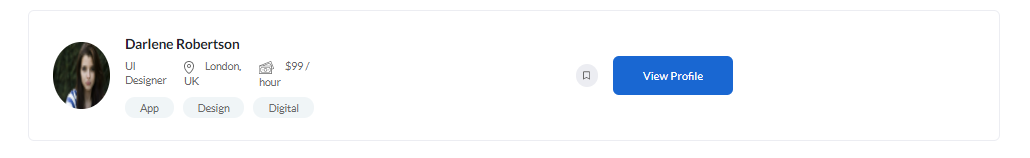
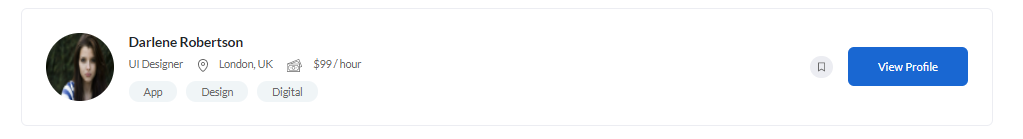
card_155 improved

Changed region(s): [[0.0303, 0.2302, 0.3636, 0.7482], [0.7879, 0.3165, 0.9697, 0.6331], [0.5455, 0.3453, 0.7273, 0.6043]]

diff --git a/card/card_155/style.css b/card/card_155/style.css
@@ -117,8 +117,10 @@ body {
   padding: 6px 20px;
   border-radius: 30px;
 }
-.sct_card_155__profileLink {
-  width: 100%;
+@media (max-width: 768px) {
+  .sct_card_155__profileLink {
+    width: 100%;
+  }
 }
 .sct_card_155__profileLink__svg {
   width: 30px;

diff --git a/card/card_155/style.scss b/card/card_155/style.scss
@@ -121,7 +121,9 @@ body {
 	}
 
 	&__profileLink {
-		width: 100%;
+		@media (max-width: 768px) {
+			width: 100%;
+		}
 		&__svg {
 			width: 30px;
 			height: 30px;
